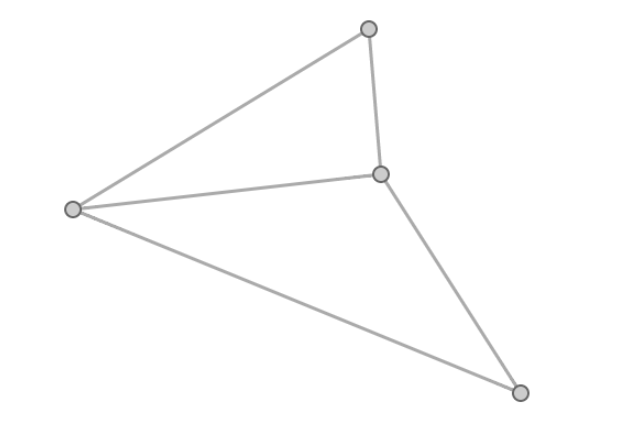
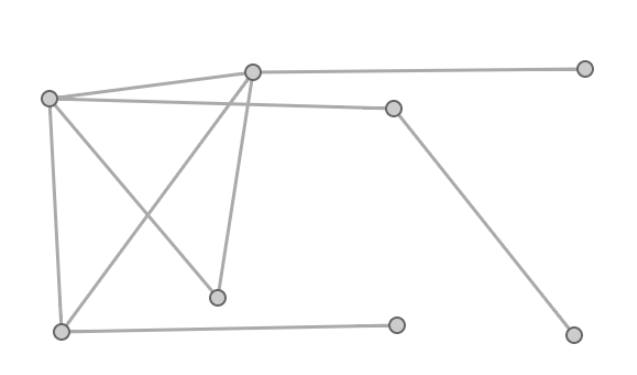
better placement of the nodes

diff --git a/graph.js b/graph.js
@@ -4,6 +4,23 @@ var GRAPH = function(){
     var NODE_RADIUS = 7;
     var EDGE_WIDTH = 3;
     var NODE_BORDER_WIDTH = 2;
+    var JITTER = 0.5;
+
+    function obj2arr(obj) {
+        var arr = [];
+        for (i in obj) {
+            arr[i] = obj[i];
+        }
+        return arr;
+    }
+
+    function arr2obj (arr) {
+        var obj = {};
+        for (i in arr) {
+            obj[i] = arr[i];
+        }
+        return obj;
+    }
 
     function randBetween(lower, upper) {
         return Math.floor(Math.random()*(upper-lower+1)+lower);
@@ -36,28 +53,51 @@ var GRAPH = function(){
         ctx.closePath();
     }
 
+    function positionNodes(nodelist, width, height) {
+        if (nodelist.length === 1) {
+            var node = nodelist[0];
+            node.x = Math.floor(width/2) + Math.floor(Math.random() * JITTER * (width - width/2));
+            node.y = Math.floor(height/2) + Math.floor(Math.random() * JITTER * (height - height/2));
+            return [node];
+        } else {
+            var m = Math.floor(nodelist.length/2),
+                one = nodelist.slice(0, m),
+                two = nodelist.slice(m);
+            if (width > height) {
+                positionNodes(one, Math.floor(width/2), height);
+                positionNodes(two, Math.floor(width/2), height);
+                for (i in two) {
+                    two[i].x += Math.floor(width/2);
+                }
+            } else {
+                positionNodes(one, width, Math.floor(height/2));
+                positionNodes(two, width, Math.floor(height/2));
+                for (i in two) {
+                    two[i].y += Math.floor(height/2);
+                }
+            }
+        }
+        return nodelist;
+    }
+
     function draw (canvas, graph) {
-          var ctx = canvas.getContext("2d");
-          WIDTH = parseInt(canvas.getAttribute("width"), 10);
-          HEIGHT = parseInt(canvas.getAttribute("height"), 10);
+        var ctx = canvas.getContext("2d");
+        WIDTH = parseInt(canvas.getAttribute("width"), 10);
+        HEIGHT = parseInt(canvas.getAttribute("height"), 10);
 
-          // position nodes
-          for (var i in graph) {
-              var node = graph[i];
-              node.x = randBetween(PADDING, WIDTH-PADDING);
-              node.y = randBetween(PADDING, HEIGHT-PADDING);
-          }
+        // position nodes
+        graph = arr2obj(positionNodes(obj2arr(graph), WIDTH, HEIGHT));
 
-          // draw edges
-          for (var i in graph) {
-              var node = graph[i];
-              drawEdges(node, graph, ctx, "#aaa");
-          }
-          // draw nodes
-          for (var i in graph) {
-              var node = graph[i];
-              drawNode(node, ctx, "#ccc", "#666");
-          }
+        // draw edges
+        for (var i in graph) {
+            var node = graph[i];
+            drawEdges(node, graph, ctx, "#aaa");
+        }
+        // draw nodes
+        for (var i in graph) {
+            var node = graph[i];
+            drawNode(node, ctx, "#ccc", "#666");
+        }
     }
 
     return {

diff --git a/index.htm b/index.htm
@@ -5,7 +5,16 @@
     <script type="text/javascript" src="graph.js"></script>
     <script type="text/javascript">
         window.onload = function() {
-            var graphObj = {0: {adj: [1]}, 1: {adj: [2]}, 2: {adj: [0]}, 3: {adj: [0, 1]}};
+            var graphObj = {
+                0: {adj: [1]},
+                1: {adj: [2]},
+                2: {adj: [0]},
+                3: {adj: [0, 1]},
+                4: {adj: [0]},
+                5: {adj: [1]},
+                6: {adj: [2]},
+                7: {adj: [4]}
+            };
             var canvas = document.getElementById('canvas');
             if (canvas.getContext) {
                 GRAPH.draw(canvas, graphObj);

diff --git a/README.md b/README.md
@@ -20,7 +20,7 @@ var graphObj = {
 
 Check out index.htm for an example.
 
-Placement of the nodes is random and therefore not even remotely optimal.
+Placement of the nodes is equally spreaded with a random jitter, but not even remotely optimal.
 
 
 ```
